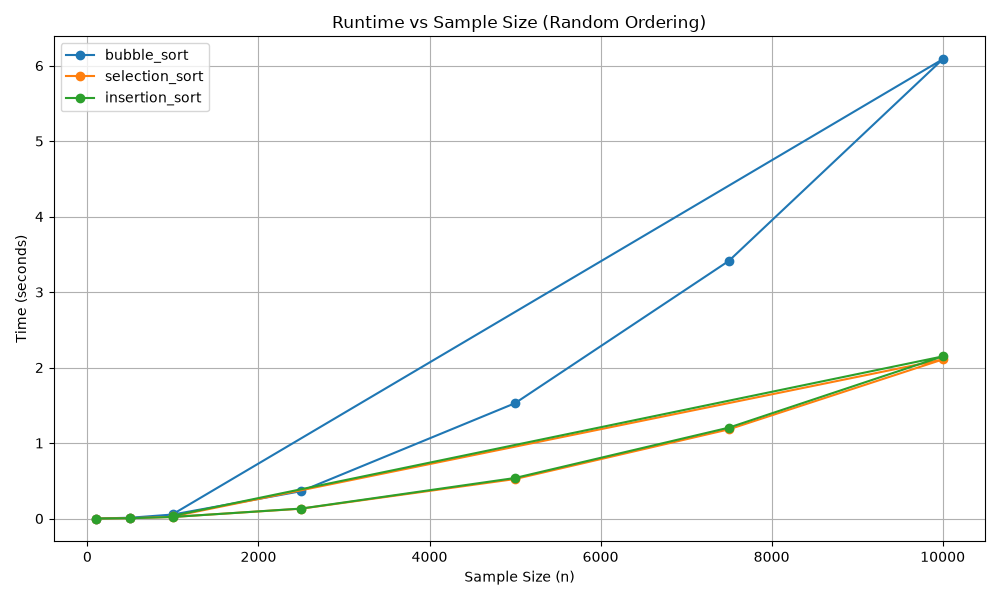
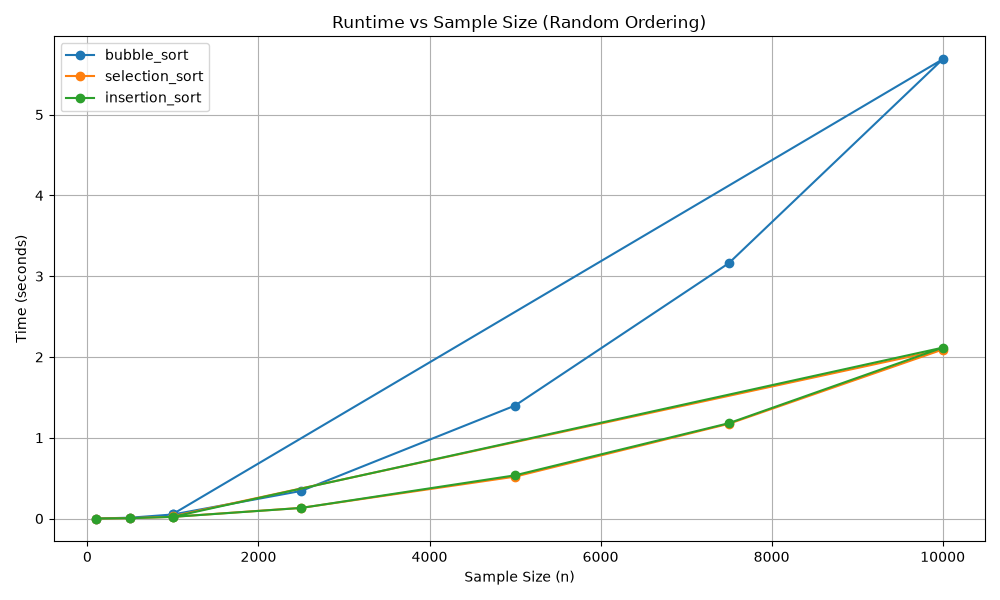
FEAT: Fixed Spacing | Fixed Formatting

diff --git a/src/menu.py b/src/menu.py
@@ -1,10 +1,17 @@
 import sys
+import os
 from pathlib import Path
 
 sys.path.append(str(Path(__file__).parent))
 
 from operations.filter_dataset import filter_dataset
 from operations.list_columns import list_columns
+
+_loaded_df = None
+
+
+def clear():
+    os.system('cls' if os.name == 'nt' else 'clear')
 
 
 def print_header():
@@ -14,6 +21,8 @@ def print_header():
 
 
 def print_menu():
+    status = "loaded" if _loaded_df is not None else "not loaded"
+    print(f"\n  Dataset status: [{status}]")
     print("\n  OPERATIONS")
     print("  1. List dataset columns & properties")
     print("  2. Filter dataset")
@@ -26,33 +35,48 @@ def print_menu():
 
 
 def handle_choice(choice: str):
+    global _loaded_df
+
     if choice == "1":
+        clear()
         print("\n-> Listing columns...\n")
         list_columns()
 
     elif choice == "2":
+        clear()
         print("\n-> Filtering dataset...\n")
         filter_dataset()
 
     elif choice == "3":
-        from services.loader import load_dataset
-        print("\n-> Loading filtered dataset...\n")
-        load_dataset()
+        clear()
+        if _loaded_df is not None:
+            print("\n  Dataset already loaded. Skipping.")
+        else:
+            from services.loader import load_dataset
+            print("\n-> Loading filtered dataset...\n")
+            _loaded_df = load_dataset()
 
     elif choice == "4":
-        from services.loader import load_dataset
+        clear()
         from services.chunker import generate_all_samples
-        from services.metrics_evaluator import benchmark, benchmark_text, save_results, plot_results
+        from services.metrics_evaluator import benchmark, benchmark_text, save_results, plot_results, extrapolate
+
+        if _loaded_df is None:
+            from services.loader import load_dataset
+            print("\n-> Dataset not loaded. Loading now...\n")
+            _loaded_df = load_dataset()
+
         print("\n-> Running benchmarks...\n")
-        df = load_dataset()
-        samples = generate_all_samples(df, 'ARR_DELAY')
+        samples = generate_all_samples(_loaded_df, 'ARR_DELAY')
         results = benchmark(samples)
-        text_results = benchmark_text(df, 1_000)
+        text_results = benchmark_text(_loaded_df, 1_000)
         results.extend(text_results)
         results_df = save_results(results)
         plot_results(results_df)
+        extrapolate(results_df, len(_loaded_df))
 
     elif choice == "5":
+        clear()
         import pandas as pd
         results_path = Path(__file__).parent / 'results' / 'metrics.csv'
         if not results_path.exists():
@@ -63,6 +87,7 @@ def handle_choice(choice: str):
             print(df.to_string(index=False))
 
     elif choice == "0":
+        clear()
         print("\nExiting. Goodbye!\n")
         sys.exit(0)
 
@@ -72,10 +97,12 @@ def handle_choice(choice: str):
 
 def main():
     while True:
+        clear()
         print_header()
         print_menu()
         choice = input("Enter option: ").strip()
         handle_choice(choice)
+        input("\nPress Enter to continue...")
 
 
 if __name__ == "__main__":
